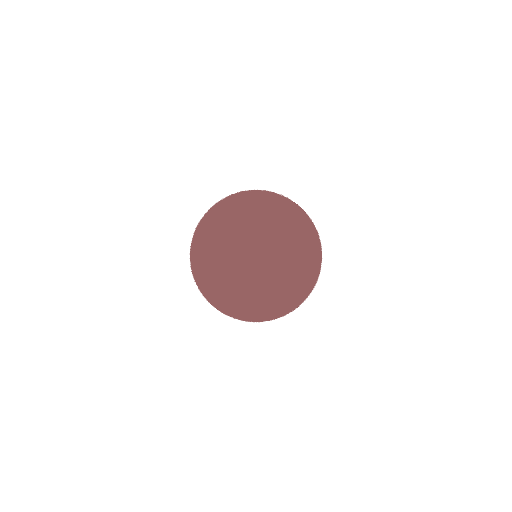
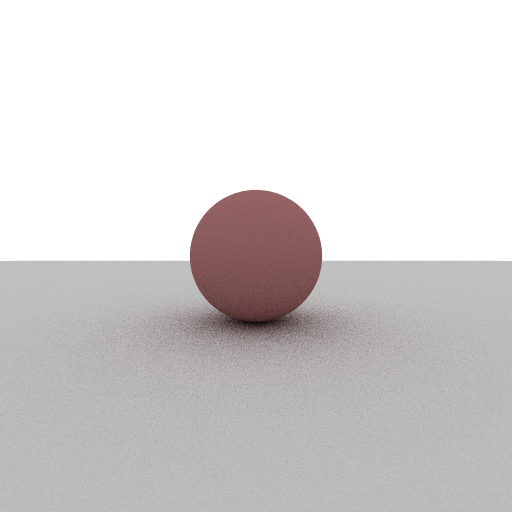
quad

diff --git a/src/surfaces/quad.rs b/src/surfaces/quad.rs
@@ -2,16 +2,47 @@ use crate::util::*;
 use serde_json::{Value};
 use crate::util::transform::Transform;
 use crate::surfaces::SurfaceBase;
+use glam::DVec3;
+use crate::material::{ObjectMaterial, Material};
+use std::rc::Rc;
 
 pub struct Quad {
     m_size: f64,
-    m_xform: Transform
+    m_xform: Transform,  // local to world
+    m_material: Rc<ObjectMaterial>
 }
 
 impl SurfaceBase for Quad {
     fn intersect(&self, ray: &mut ray::Ray, hit: &mut ray::HitInfo) -> bool {
-        // TODO: implement intesect
-        return false
+        let t_ray = self.m_xform.inverse().ray(ray);
+        if t_ray.d.z == 0.0 {
+            return false;
+        };
+        let t = -t_ray.o.z / t_ray.d.z;
+        let mut p = t_ray.get_point(t);
+
+        if self.m_size < p.x || -self.m_size > p.x || self.m_size < p.y || -self.m_size > p.y {
+            return false;
+        };
+
+        // check ray bounds
+        if t < t_ray.mint || t > t_ray.maxt {
+            return false;
+        };
+
+        // project onto plane
+        p.z = 0.0;
+
+        // get normal
+        let norm = self.m_xform.normal(DVec3 { x: 0.0, y: 0.0, z: -1.0 });
+
+        // return true, record values
+        hit.t = t;
+        hit.p = self.m_xform.point(p);
+        hit.sn = norm;
+        hit.mat = Rc::clone(&self.m_material);
+
+        return true;
     }
 }
 
@@ -29,6 +60,11 @@ impl Quad {
             None => Transform::identity()
         };
 
-        Quad { m_size: size / 2.0, m_xform: transform }
+        let material = match j.get("material") {
+            Some(v) => ObjectMaterial::from_json(v),
+            None => panic!("can't parse without material")
+        };
+
+        Quad { m_size: size / 2.0, m_xform: transform, m_material: Rc::new(material) }
     }
 }

diff --git a/src/util/transform.rs b/src/util/transform.rs
@@ -1,4 +1,4 @@
-use glam::f64::{DMat4, DVec3};
+use glam::f64::{DMat4, DVec3, DQuat};
 use serde_json::{Value};
 use crate::util::*;
 use crate::util::ray::Ray;
@@ -54,7 +54,26 @@ impl Transform {
             None => DVec3::ZERO
         };
 
-        let transform_mat = DMat4::from_translation(translation_vec);
+        let axis_vec = match j.get("axis") {
+            Some(v) => {
+                let val_arr = v.as_array().unwrap();
+                DVec3 {
+                    x: safe_value_to_f64(&val_arr[0], 0.0),
+                    y: safe_value_to_f64(&val_arr[1], 0.0),
+                    z: safe_value_to_f64(&val_arr[2], 0.0)
+                }
+            },
+            None => DVec3::ZERO
+        };
+
+        let angle = match j.get("angle") {
+            Some(v) => M_PI * safe_value_to_f64(v, 0.0),
+            None => 0.0
+        };
+
+        let transform_mat = DMat4::from_rotation_translation(
+            DQuat::from_axis_angle(axis_vec, angle), 
+            translation_vec);
 
         Transform {
             m: transform_mat,

diff --git a/src/surfaces/sphere.rs b/src/surfaces/sphere.rs
@@ -26,13 +26,15 @@ impl SurfaceBase for Sphere {
         };
 
         let root_discrim = discrim.sqrt();
-        let q = if b < 0.0 { -0.5 * (b - root_discrim) } else { -0.5 * (b + root_discrim) };
 
-        let t1 = q / a;
-        let t2 = c / q;
+        let t1 = ( -0.5 * (b - root_discrim) ) / a;
+        let t2 = ( -0.5 * (b + root_discrim) ) / a;
 
         // compute distance along ray
-        let t = if t1 < t_ray.mint { t2 } else { t1 };
+        let t_min = t1.min(t2);
+        let t_max = t1.max(t2);
+
+        let t = if t_min < t_ray.mint { t_max } else { t_min };
 
         // check if t is within ray limits
         if t < t_ray.mint || t > t_ray.maxt {
@@ -40,7 +42,8 @@ impl SurfaceBase for Sphere {
         };
 
         // get point and fill in hit info
-        let p = t_ray.get_point(t) * (self.m_radius / t_ray.get_point(t).length());
+        // let p = t_ray.get_point(t) * (self.m_radius / t_ray.get_point(t).length());
+        let p = t_ray.get_point(t);
 
         hit.t = t;
         hit.p = self.m_xform.point(p);

diff --git a/src/surfaces/mod.rs b/src/surfaces/mod.rs
@@ -31,7 +31,7 @@ impl SurfaceBase for SurfaceGroup {
         for surface in self.m_surfaces.iter() {
             if surface.intersect(ray, hit) {
                 hit_something = true;
-                ray.mint = hit.t;
+                ray.maxt = hit.t;
             }
         }
 

diff --git a/src/scene/mod.rs b/src/scene/mod.rs
@@ -55,7 +55,7 @@ impl Scene {
                     None => return emitted
                 }
             }
-            return self.m_background;
+            return emitted;
         } else {
             return self.m_background;
         }
